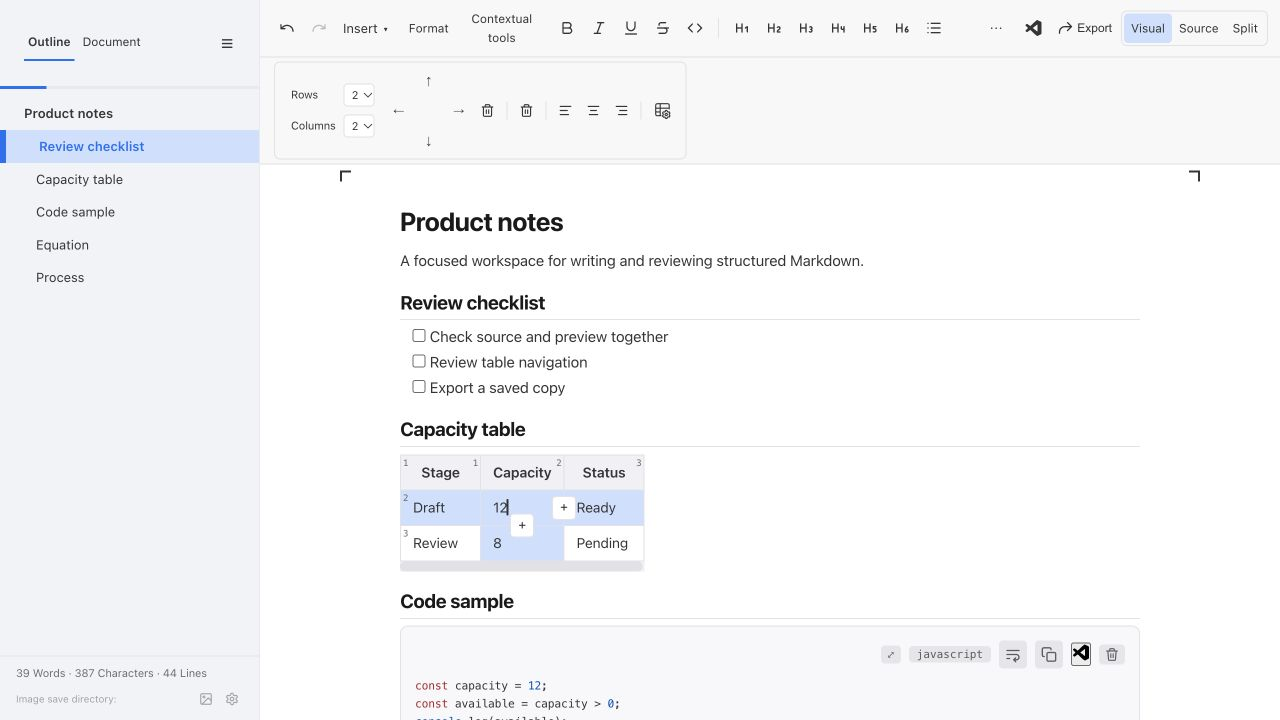
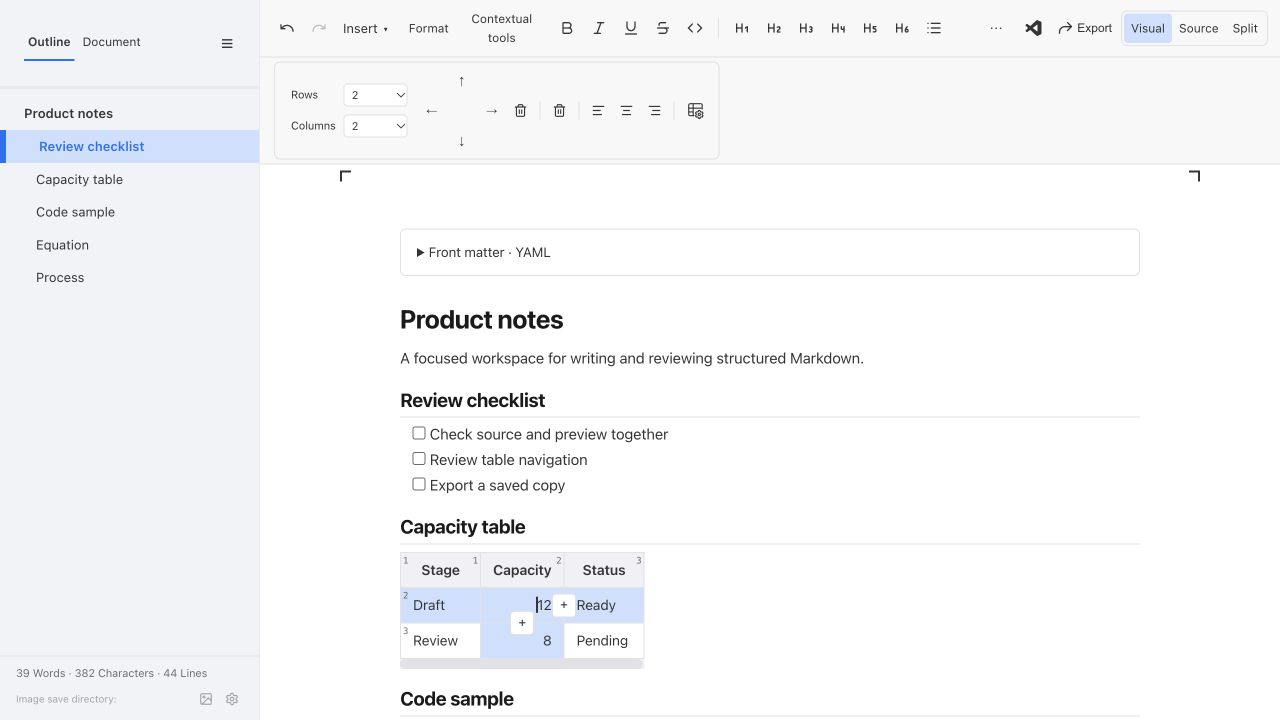
docs: record final UI validation and native layout correction

diff --git a/reports/validation/2026-10-01-selected-ui-ux/report.md b/reports/validation/2026-10-01-selected-ui-ux/report.md
@@ -2,17 +2,17 @@
 
 Date: **2026-10-01**. Status: **Development implementation for maintainer testing; no merge, release, or human acceptance established by this report.**
 
-This report records the implementation of the 12 choices selected from the [visual design review](https://github.com/BinaryOutlook/binary-markdown/blob/a798921f7e5a9b01a88360315b035a391f69da47/reports/investigations/2026-09-30-ui-ux-visual-review/report.md), discussed in [design PR #94](https://github.com/BinaryOutlook/binary-markdown/pull/94). That review contains the original screenshots and the three ranked concepts for each item. This implementation record adds actual browser screenshots, the chosen behavior, a scoped security review, and a manual acceptance checklist.
+This report records the implementation of the 12 choices selected from the [visual design review](https://github.com/BinaryOutlook/binary-markdown/blob/a798921f7e5a9b01a88360315b035a391f69da47/reports/investigations/2026-09-30-ui-ux-visual-review/report.md), discussed in [design PR #94](https://github.com/BinaryOutlook/binary-markdown/pull/94). That review contains the original screenshots and the three ranked concepts for each item. This implementation record adds actual browser screenshots, the chosen behavior, a scoped security review, and a manual acceptance checklist. [Implementation PR #95](https://github.com/BinaryOutlook/binary-markdown/pull/95) carries the code and current hosted checks.
 
 ## Revision and evidence scope
 
 The feature branch is `feat/selected-ui-ux-redesign`, based on canonical `main` at `092e712baa7080ac492c7c4714c485a19e8ab2fa`. Existing stationary code copy/wrap controls from PR #93 are retained. The branch keeps the extension identifier, package version, command IDs, and saved setting defaults.
 
-Implementation and security changes are separated into focused commits. The code and regression-test revision for the full local checks is `3c582f603b3dd3189775d146581c915594fc27b2`; subsequent documentation records those checks. Supplemental shared-native table preflight applies to test revision `6475f1ceb1dbdcf2301a61e586cb40acd007c597`, which changes test assumptions and adds two shared-harness browser cases without changing product code. The local environment uses Node **24.21.0** on **macOS ARM64**, Playwright **1.58.1**, and bundled Chromium **145.0.7632.6**. The implementation PR's exact head and **Checks** identify hosted CI results, including installed-VSIX and converter checks; this local record does not replace those results.
+Implementation and security changes are separated into focused commits. The code and regression-test revision for the final full local checks is `c244d66d2d16c0752a28ea6f30d4c73a02c7827b`; subsequent documentation records those checks. This revision includes the native selector-sizing correction and shared-harness preflight for compact table controls, overflow, and underline. The local environment uses Node **24.21.0** on **macOS ARM64**, Playwright **1.58.1**, and bundled Chromium **145.0.7632.6**. The implementation PR's exact head and **Checks** identify hosted CI results, including installed-VSIX and converter checks; this local record does not replace those results.
 
 Pull-request CI packages GitHub's test merge revision of the PR head with `main`. Its candidate artifact name and build information record that tested revision, which can differ from the branch head. Use the source identity of the matching successful CI candidate when installing and reporting manual results.
 
-The screenshots were captured from the compiled feature-branch browser fixture at 1280 × 720 using a synthetic document. They show implemented interfaces rather than generated concepts. The fixture does not have a VS Code export controller, so its Export screenshot honestly shows **Checking tools…**; completed exports and output opening are covered by the automated host/UI checks and require installed-extension review. No real document, account, image directory, conversion output path, or machine identifier appears in the images. All ten JPEGs were inspected for content and contain no EXIF or XMP metadata.
+The screenshots were captured from the compiled feature-branch browser fixture at 1280 × 720 using a synthetic document. They show implemented interfaces rather than generated concepts. The table screenshot was refreshed after the final native sizing correction. The fixture does not have a VS Code export controller, so its Export screenshot honestly shows **Checking tools…**; completed exports and output opening are covered by the automated host/UI checks and require installed-extension review. No real document, account, image directory, conversion output path, or machine identifier appears in the images. All ten JPEGs were inspected for content and contain no EXIF or XMP metadata.
 
 ## Selection-to-implementation mapping
 
@@ -120,15 +120,20 @@ Strict Mermaid rendering deliberately restricts callback/HTML interactions that 
 
 The final local validation results are recorded after the clean regression run. Earlier runs exposed stale broad test selectors and old toolbar/palette assumptions, plus a real table row-number reflow issue that shifted focused inline-equation targets. The implementation makes row/column numbers out-of-flow so focusing a cell no longer moves its content. Those earlier failures are not counted as passes.
 
-An [initial hosted run](https://github.com/BinaryOutlook/binary-markdown/actions/runs/36776653882) passed packaging, units, real converters, and archive parity, but all four installed-extension lanes stopped at the shared table-overflow watchdog. That helper expected **More** at 520 px, where the directional controls now fit inline. The correction uses the existing browser regression's 420 px pane and updated action order, retains all reachability/selection/undo assertions, and adds shared overflow and contextual-row preflight cases. Its final focused run passed all 35 checks; the current implementation PR's checks establish the replacement candidate's hosted result.
+An [initial hosted run](https://github.com/BinaryOutlook/binary-markdown/actions/runs/36776653882) passed packaging, units, real converters, and archive parity, but all four installed-extension lanes stopped at the shared table-overflow watchdog. That helper expected **More** at 520 px, where the directional controls now fit inline. The correction uses the existing browser regression's 420 px pane and updated action order, retaining reachability, selection, and undo assertions. Later compact-host failures identified an alignment assertion that overlooked the collapsed table-controls button and an underline assertion that overlooked toolbar overflow. Shared-harness browser cases now exercise those actual menu routes, including saved-source messages and unchanged history for view-only actions.
+
+The [subsequent hosted run](https://github.com/BinaryOutlook/binary-markdown/actions/runs/36782007854) also exposed a real Windows layout issue: populated native row/column selectors exceeded the size of their empty measuring copies. Classic scrollbars then clipped the top directional arrow. Fixed selector widths make the measured and populated controls agree. The regression coverage includes classic scrollbars, a pane capped at 458 px, a 100-row synthetic table, and widths from 360 to 420 px. A two-frame layout boundary precedes the shared overflow action check so it chooses the current visible route after resizing. Windows acceptance of the final correction is established by the replacement PR checks, not inferred from the macOS browser simulation.
+
[1 lines of base64/hex data omitted]
 
 | Check | Result and limit |
 | --- | --- |
 | `npm run compile` | Pass, including TypeScript, seven locales, shared/browser assets, and vendor copying. |
 | `npm run lint` | Pass with 0 errors and 11 existing warnings. |
 | `npm run test:unit` | 360 tests: 341 passed and 19 explicit prerequisite-dependent skips. Local skips do not establish real-converter/package validation. |
-| `npx playwright test --workers=2 --max-failures=5` | **1,220 passed**, 0 failures, and no retries in the clean full local run (7.0 minutes), including the selected-design and legacy editing regressions. |
-| Supplemental table preflight | **35 passed**, including two new cases that reuse the shared native overflow/contextual-row checks. Pointer checks use the existing browser cases; the shared contextual-row preflight uses the installed harness's DOM activation contract. |
+| `npx playwright test --workers=2 --max-failures=5` | **1,230 passed**, 0 failures, and no retries in the final full local run (6.9 minutes), including the selected-design and legacy editing regressions. |
+| Final focused browser preflight | **120 passed** across selected designs, table overflow/contextual rows, alignment, and underline. Pointer checks use the existing browser cases; shared-harness preflight also exercises the installed harness's DOM activation contract and fixture save messages. These tests are included in the full 1,230-test run. |
+| Isolated installed VSIX preflight | Eight focused suites passed on the earlier CI package; final table/underline checks passed after rebuilding and reinstalling the local development snapshot. All native receipts end with unchanged frozen inputs. Package identities and interaction limits are recorded above. |
 | `npm audit --json` | 0 known vulnerabilities after the DOMPurify patch. |
 | Markdown/privacy and whitespace checks | Repository checker passed: 65 text files and 533 local links, with no common private-data patterns. `git diff --check` passed. Six affected Markdown files received separate complete raw-source/diff and rendered-browser reviews. Tables, images, paragraphs, lists, and code fences were checked; no remaining layout issue was identified. |
 | Hosted CI | Check the implementation PR's exact head and per-lane results. The required **VSIX validation** gate includes Linux, macOS, Windows, and minimum-supported VS Code. |
